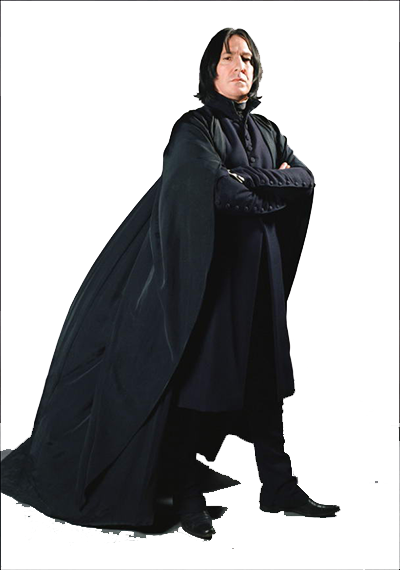
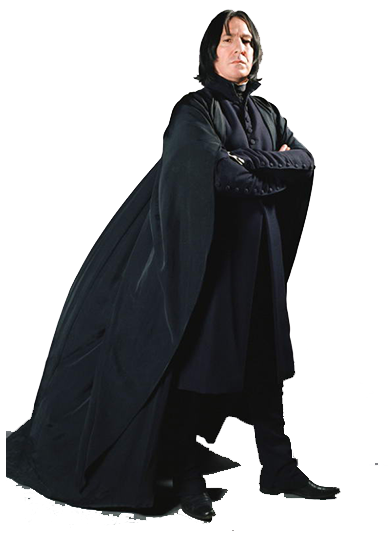
snape had an outline and the end logic needed some shifting

diff --git a/js/script.js b/js/script.js
@@ -7,7 +7,7 @@ $(document).ready(function(){
 		var executed = false;
 
 		// store total list, move images from legends to finished after get to heaven
-		var legends = ['img/bowie.png', 'img/prince.png', 'img/snape.png'];
+		var legends = ['img/bowie.png', 'img/prince.png', 'img/snape.png', 'excess'];
 		
 
 		//set up game with first legend. To be repeated with outro button 
@@ -147,7 +147,9 @@ $(document).ready(function(){
     			if( finished.length < legends.length ){
     				$('.outro').slideUp( 300 ).delay( 4000 ).fadeIn( 1000 );	
     			}
-    			if (finished.length >= legends.length){
+    			if (finished.length > legends.length - 1){
+            console.log(finished.length);
+            console.log(legends.length);
     				$('.gameOver').slideUp( 300 ).delay( 4000 ).fadeIn( 1000 );
     			}
     		}
